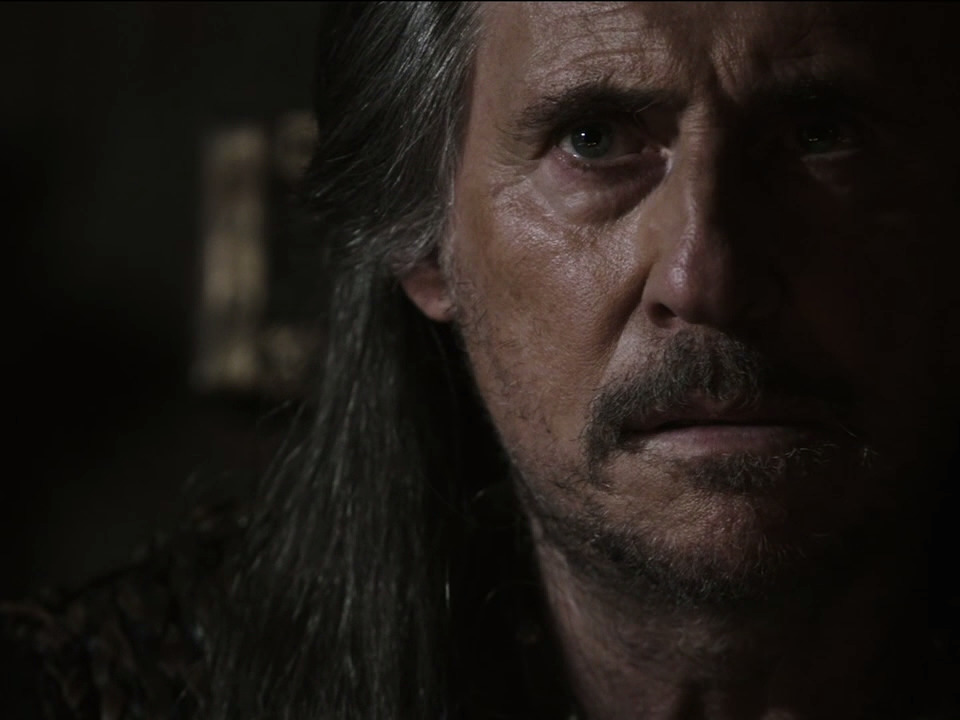
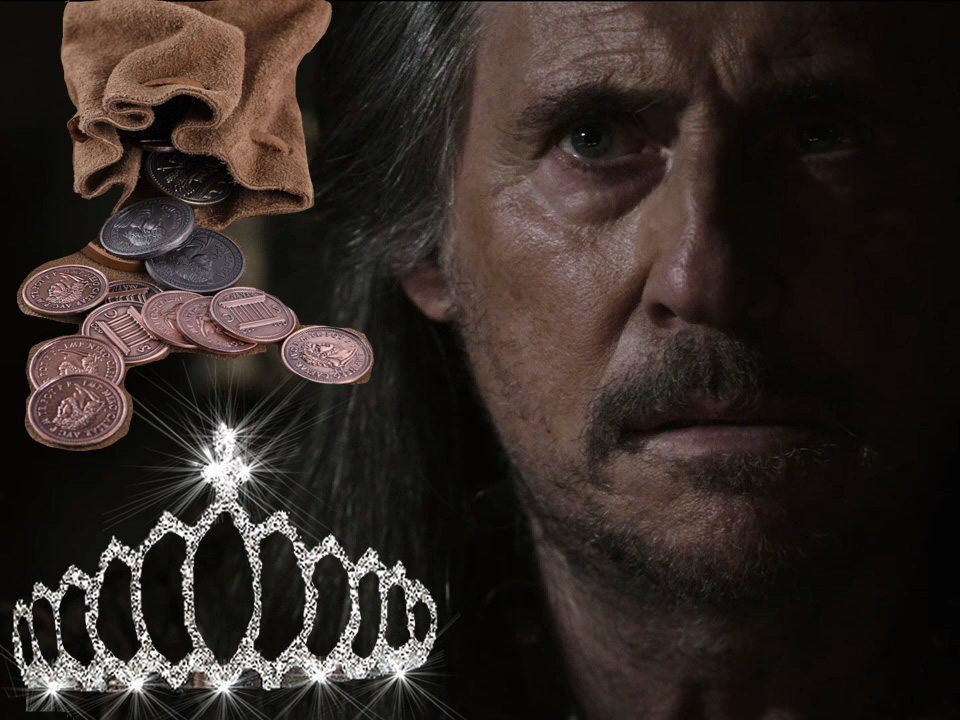
Imagenes cambiadas Primera Parte

Changed region(s): [[0.0, 0.0, 0.4688, 1.0]]

diff --git a/games/media/games/tutorial/vikingos.js b/games/media/games/tutorial/vikingos.js
@@ -32,6 +32,7 @@ undum.game.situations = {
             "<h1>La tribu de Kattegat</h1><p>Acabas de llegar a <a href='https://vikings.fandom.com/es/wiki/Kattegat' class='raw' target='_new'>Kattegat.</a>\
             Tras un saqueo el cual ha sido muy exitoso, por fin estás de vuelta en casa.\
             Y traes contigo un tesoro de cien monedas de oro, una corona de plata y una espada.\
+			<img width='450' src='./media/img/tesoro-vikingo.jpg'></p>\
             <img width='450' src='./media/img/kattegat1.png'></p>\
             <p>Al entrar en la tribu, recuerdas que Kattegat está gobernado por el\
             <a href='https://vikings.fandom.com/es/wiki/Conde_Haraldson' class='raw' target='_new'>Conde Haraldson,</a>\
@@ -72,7 +73,9 @@ undum.game.situations = {
             }
         ),
         pedirdisculpas: new undum.SimpleSituation(
-            "<h1>El agradecimiento del conde</h1><p>El Conde te agradece las disculpas pero como es costumbre, te exige el pago de una parte del tesoro como impuestos del condado. Como te has disculpado\
+            "<h1>El agradecimiento del conde</h1>\
+			<p><img align='middle' width='450' src='./media/img/50monedas_corona.png'>\
+			<p>El Conde te agradece las disculpas pero como es costumbre, te exige el pago de una parte del tesoro como impuestos del condado. Como te has disculpado\
              solo te pide un tercio del tesoro. Y tú decides entregarle <a href='./darmonedas'>cuarenta monedas de oro</a>, darle<a href='./darcorona'> la corona de plata</a> o prefieres antes \
             <a href='./mirard'>mirar detalladamente</a> en tu bolsa para ver si tienes algo más de valor.</p>",
              {
@@ -166,6 +169,7 @@ undum.game.situations = {
 		
 		 pagasyteencierran: new undum.SimpleSituation (
             "<h1>EL ARRESTO DE RAGNAR</h1>\
+			<p><img align='middle' width='450' src='./media/img/50monedas_corona.png'>\
             <p>El Conde ordena a sus hombres que alzen sus armas. Todo este tiempo sin ti en la tribu ha sido\
             demasiado tranquilo, tu ausencia era reconfortante para el condado, y el Conde no está dispuesto a que esa situación cambie.\
             Haraldson te detiene provisonalmente, cree que estás conspirando contra él y no se fía de ti.</p>\

diff --git a/games/vikingos.html b/games/vikingos.html
@@ -19,6 +19,7 @@
     <!-- Suppport for mobile devices. -->
     <meta name="viewport" content="user-scalable=no, width=device-width">
     <link rel="apple-touch-icon" href="media/img/iphone/icon.png">
+	<link rel="apple-touch-startup-image" href="media/tesoro-vikingo.jpg">
     <link rel="apple-touch-startup-image" href="media/kattegat1.png">
     <meta name="apple-mobile-web-app-capable" content="yes">
     <meta name="apple-mobile-web-app-status-bar-style" content="black">
